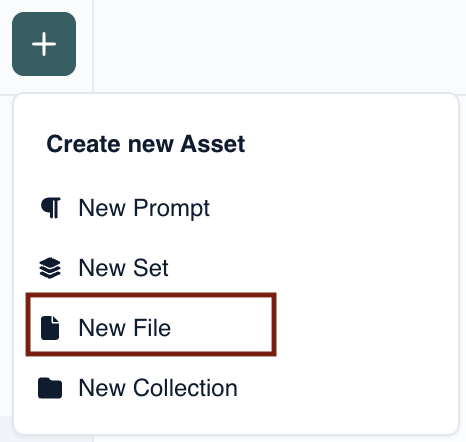
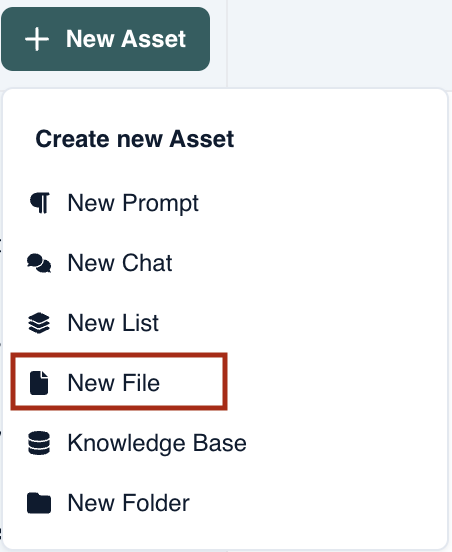
added documentation about chats and kbs

diff --git a/docs/integrations.md b/docs/integrations.md
@@ -7,7 +7,7 @@ sidebar_position: 4
 Integrations allow you to test your prompts towards different model providers.
 
 :::info
-Currently we only integrate with the OpenAI APIs, but our goal is to allow you to connect to any ML model / API, locally and in the cloud.
+Currently we only integrate with the OpenAI APIs, but we are currently working on becoming **LLM agnostic** to allow you to connect to any ML model / API, locally and in the cloud.
 :::
 
 ## OpenAI

diff --git a/docs/concepts/03-Files.md b/docs/concepts/03-Files.md
@@ -7,7 +7,7 @@ Files are a type of asset that you can pass to your template. Let's explore how 
 
 ### File creation
 
-To create a file, you click on the **_+_** sign to create the asset:
+To create a file, you click on the **+ New Asset** sign to create the asset:
 
 <img src={create_file} alt="create_file" width="30%" />
 

diff --git a/docs/concepts/concepts.md b/docs/concepts/concepts.md
@@ -11,6 +11,8 @@ We currently support **three** types of assets:
 - [Prompt](/concepts/Prompts)
 - [List](/concepts/lists)
 - [File](/concepts/Files)
+- [Knowledge base](/concepts/Knowledge-bases)
+- [Chat](/concepts/chats)
 
 To create an asset, click on the **+** button, you will see the assets, as seen below.
 
